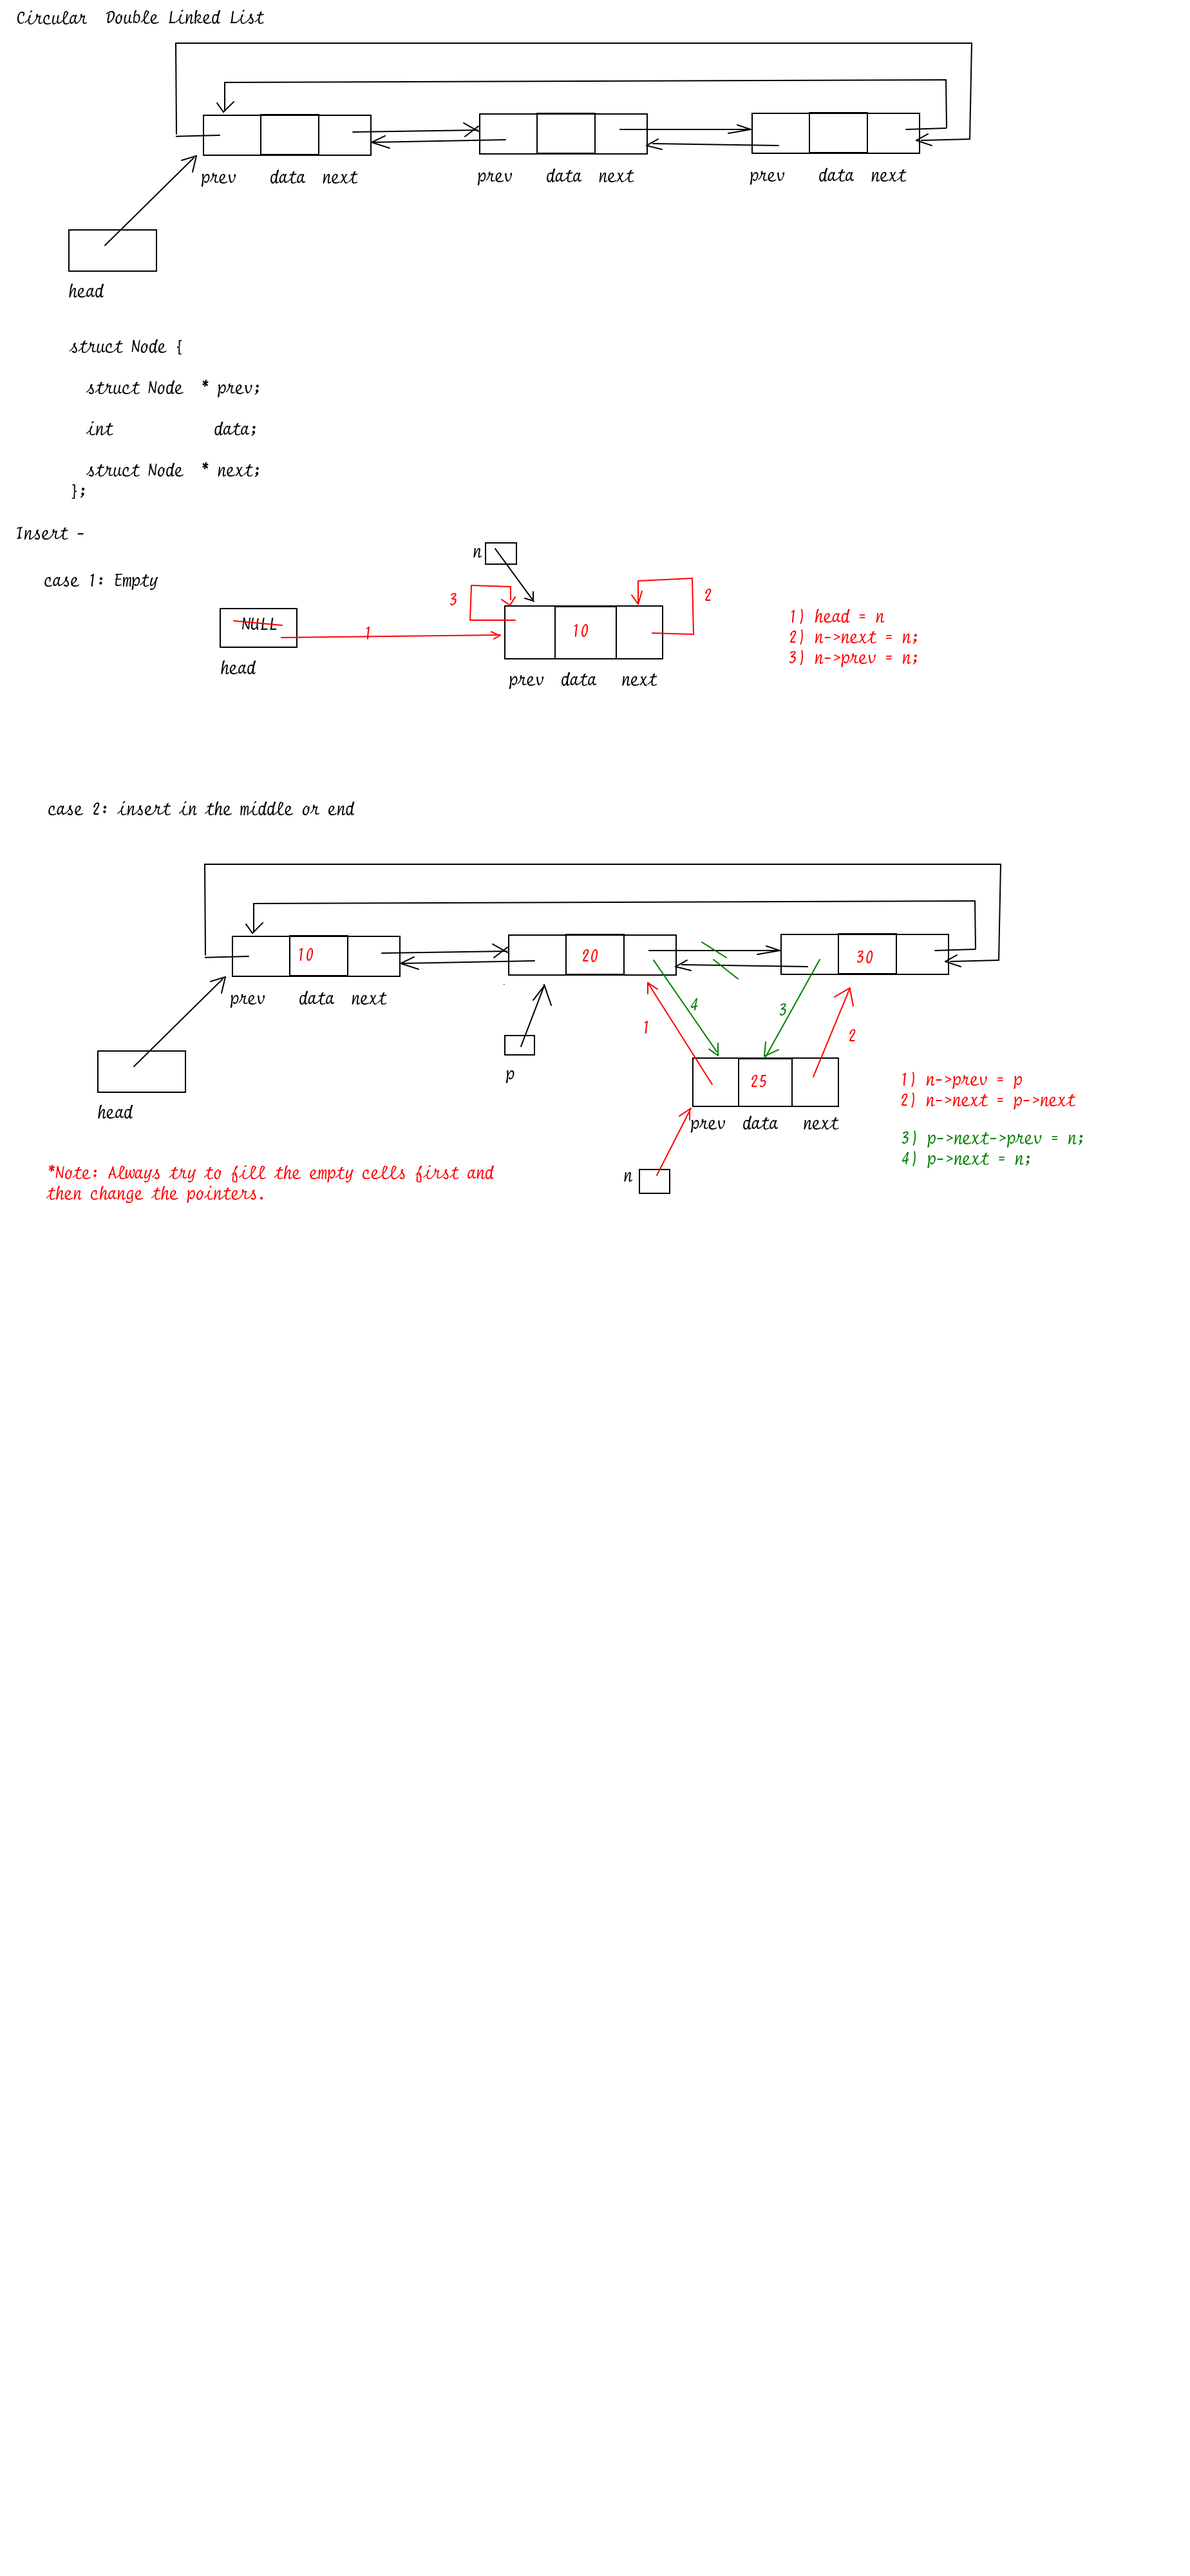
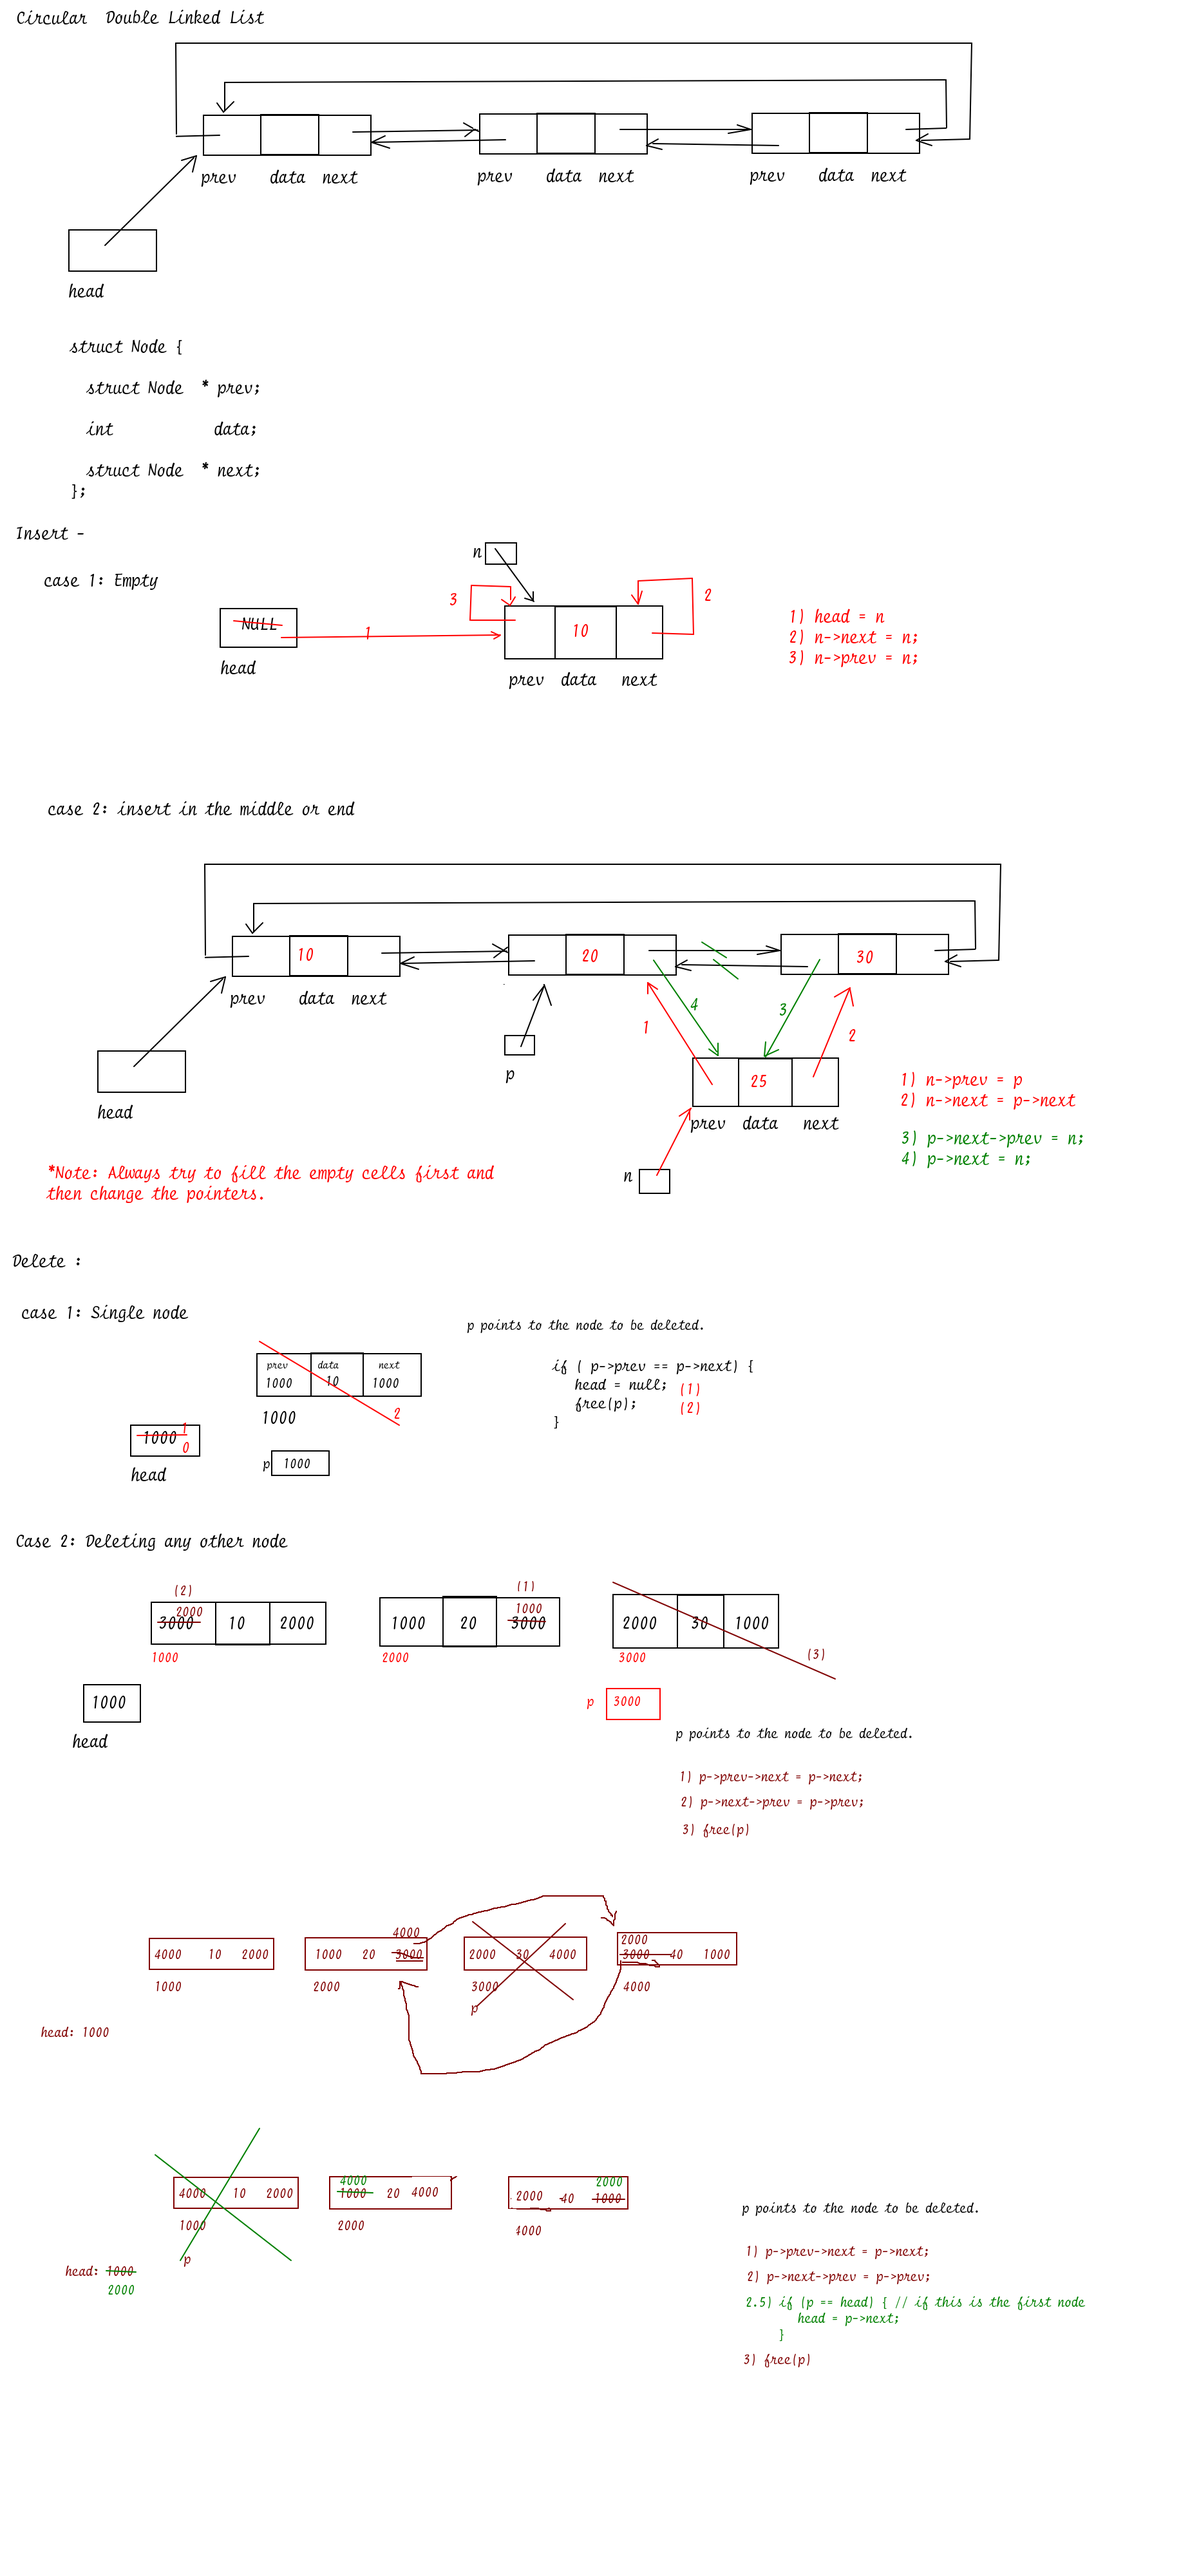
Circular linked list updated

diff --git a/6.2-LinkedList-Part2/1-CircularDoubleLinkedList.c b/6.2-LinkedList-Part2/1-CircularDoubleLinkedList.c
@@ -2,7 +2,7 @@
 #include <stdio.h>
 #include <stdlib.h>
 
-enum Menu {ADD=1, INSERT, DELETE, SORT, REVERSE, DISPLAY, EXIT};
+enum Menu {ADD=1, INSERT, DELETE, DISPLAY, EXIT};
 
 
 struct Node {
@@ -16,13 +16,11 @@ struct Node * add ( struct Node *, int );
 void display(struct Node *);
 struct Node * insert(struct Node *, int, int);
 struct Node * delete(struct Node *, int);
-struct Node * reverse(struct Node *);
-void sort(struct Node *);
 
 
 int menu() {
     int choice;
-    printf("\n 1: Add \n 2: Insert \n 3: Delete \n 4: Sort \n 5: *Reverse \n 6: Display \n 7: Exit");
+    printf("\n 1: Add \n 2: Insert \n 3: Delete \n 4: Display \n 5: Exit");
     printf("\n Enter your choice : ");
     scanf("%d", &choice);
     return choice;
@@ -42,7 +40,6 @@ int main() {
                 scanf("%d", &value);
 
                 head = add(head, value);
-            
                 break;
             case INSERT:
                 printf("\n Enter position to insert ");
@@ -57,14 +54,6 @@ int main() {
                 printf("\n Enter value to delete : ");
                 scanf("%d", &value);
                 head = delete(head, value);
-                break;
-            case SORT:
-                sort(head);
-                printf("\nSort operation");
-                break;
-            case REVERSE:
-                head = reverse(head);
-                printf("\nReverse operation");
                 break;
             case DISPLAY:
                 display(head);
@@ -131,13 +120,14 @@ void display(struct Node * head) {
     struct Node * p;
 
     if (head == NULL) {
-        printf("\n List Empty ");
+        printf("\n [head: %p] ", head);
         return ;
     }
     
+    printf("\n [head: %p]", head);
     p = head;
     do {
-        printf("  %d  ", p->data);
+        printf(" -> (addr: %p,  prev: %p, data: %d, next: %p) ",p, p->prev, p->data, p->next);
         p = p->next;
     } while ( p != head );
 
@@ -229,34 +219,49 @@ struct Node * insert(struct Node * head, int pos, int value) {
 
 struct Node * delete(struct Node *head, int value) {
     
-    struct Node *p, *q;
-    
+    struct Node *p;
+    int found;
     if (head == NULL) {
         printf("List empty");
         return head;
     } 
 
     p = head;
-    while (p != NULL && p->data != value) {
-        q = p;
+    found = 0;
+    do {
+        if (p->data == value) {
+            found = 1;
+            break;
+        }
         p = p->next;
-    }
+    } while (p != head);
 
-    if (p == NULL) {
+
+    if (found == 0) {
         printf("%d value not found in the list", value);
         return head;  // refer ... head = delete(head, value)
     }
-
+    
     // value found
 
     // case 1: if this is the first node 
     if (p == head) {
-        head = head->next;
-        free(p);
+        // case 1.a: single node case 
+        if (p->prev == p->next) {
+            head = NULL;
+            free(p);
+        } else { // case 1.b: multi node 
+            p->prev->next = p->next;
+            p->next->prev = p->prev;
+            head = p->next; // point head to the second node
+            free(p);      
+        }
+        
     } else { // case 2: middle node
-        q->next = p->next;
+        p->prev->next = p->next;
+        p->next->prev = p->prev;
         free(p);
     }
 
-    return head; // new head in case of (1) or same head in case (2)
+    return head; 
 }
